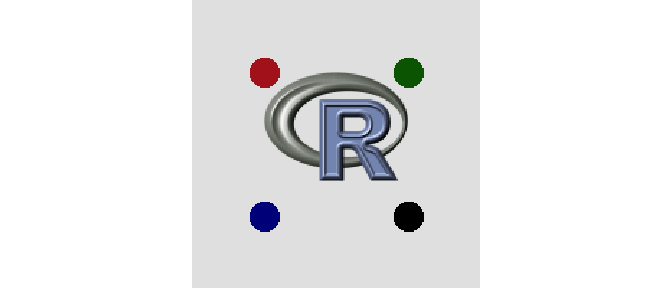
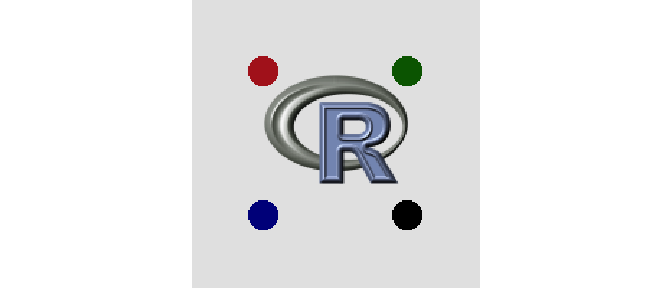
add hjust/vjust arguments

diff --git a/src/collide.c b/src/collide.c
@@ -33,13 +33,16 @@ SEXP col_create_mask_(SEXP nr_) {
 //~~~~~~~~~~~~~~~~~~~~~~~~~~~~~~~~~~~~~~~~~~~~~~~~~~~~~~~~~~~~~~~~~~~~~~~~~~~
 // Setup collision structure
 //~~~~~~~~~~~~~~~~~~~~~~~~~~~~~~~~~~~~~~~~~~~~~~~~~~~~~~~~~~~~~~~~~~~~~~~~~~~
-SEXP col_setup_(SEXP nr_list_, SEXP x_, SEXP y_) {
+SEXP col_setup_(SEXP nr_list_, SEXP x_, SEXP y_, SEXP hjust_, SEXP vjust_) {
   
   int nprotect = 0;
   int N = length(nr_list_);
   if (N != length(x_) || N != length(y_)) {
     error("'nr_list', 'x' and 'y', must all be the same length");
   }
+  
+  double hjust = asReal(hjust_);
+  double vjust = asReal(vjust_);
   
   SEXP x0_   = PROTECT(allocVector(INTSXP, N)); nprotect++;
   SEXP y0_   = PROTECT(allocVector(INTSXP, N)); nprotect++;
@@ -60,10 +63,11 @@ SEXP col_setup_(SEXP nr_list_, SEXP x_, SEXP y_) {
   
   for (int i = 0; i < N; i++) {
     SEXP nr_ = VECTOR_ELT(nr_list_, i);
-    w[i] = Rf_ncols(nr_);
-    h[i] = Rf_nrows(nr_);
-    x0[i] = (int)round(x[i]);
-    y0[i] = (int)round(y[i]);
+    
+    w[i]  = Rf_ncols(nr_);
+    h[i]  = Rf_nrows(nr_);
+    x0[i] = (int)round(x[i] - hjust * w[i]);
+    y0[i] = (int)round(y[i] - vjust * h[i]);
     x1[i] = x0[i] + w[i] - 1;
     y1[i] = y0[i] + h[i] - 1;
     
@@ -76,7 +80,7 @@ SEXP col_setup_(SEXP nr_list_, SEXP x_, SEXP y_) {
   // Setup an empty data.frame
   //~~~~~~~~~~~~~~~~~~~~~~~~~~~~~~~~~~~~~~~~~~~~~~~~~~~~~~~~~~~~~~~~~~~~~~~~~~~
   int ncols = 7;
-  SEXP df_ = PROTECT(allocVector(VECSXP, ncols)); nprotect++;
+  SEXP df_  = PROTECT(allocVector(VECSXP, ncols)); nprotect++;
   SEXP nms_ = PROTECT(allocVector(STRSXP, ncols)); nprotect++;
   SET_STRING_ELT(nms_, 0, mkChar("x0"));
   SET_STRING_ELT(nms_, 1, mkChar("y0"));
@@ -120,13 +124,16 @@ SEXP col_setup_(SEXP nr_list_, SEXP x_, SEXP y_) {
 //~~~~~~~~~~~~~~~~~~~~~~~~~~~~~~~~~~~~~~~~~~~~~~~~~~~~~~~~~~~~~~~~~~~~~~~~~~~
 // 
 //~~~~~~~~~~~~~~~~~~~~~~~~~~~~~~~~~~~~~~~~~~~~~~~~~~~~~~~~~~~~~~~~~~~~~~~~~~~
-SEXP col_detect_broad_(SEXP nr_, SEXP x_, SEXP y_, SEXP cldf_) {
+SEXP col_detect_broad_(SEXP nr_, SEXP x_, SEXP y_, SEXP cldf_, SEXP hjust_, SEXP vjust_) {
   
   int w = Rf_ncols(nr_);
   int h = Rf_nrows(nr_);
   
-  int x = asInteger(x_);
-  int y = asInteger(y_);
+  double hjust = asReal(hjust_);
+  double vjust = asReal(vjust_);
+  
+  int x = asInteger(x_) - round(hjust * w);
+  int y = asInteger(y_) - round(vjust * h);
   
   SEXP x0_   = VECTOR_ELT(cldf_, 0);
   SEXP y0_   = VECTOR_ELT(cldf_, 1);
@@ -168,9 +175,15 @@ SEXP col_detect_broad_(SEXP nr_, SEXP x_, SEXP y_, SEXP cldf_) {
 //~~~~~~~~~~~~~~~~~~~~~~~~~~~~~~~~~~~~~~~~~~~~~~~~~~~~~~~~~~~~~~~~~~~~~~~~~~~
 // 
 //~~~~~~~~~~~~~~~~~~~~~~~~~~~~~~~~~~~~~~~~~~~~~~~~~~~~~~~~~~~~~~~~~~~~~~~~~~~
-SEXP col_detect_narrow_(SEXP nr_, SEXP x_, SEXP y_, SEXP cldf_) {
+SEXP col_detect_narrow_(SEXP nr_, SEXP x_, SEXP y_, SEXP cldf_, SEXP hjust_, SEXP vjust_) {
   
   int nprotect = 0;
+  
+  //~~~~~~~~~~~~~~~~~~~~~~~~~~~~~~~~~~~~~~~~~~~~~~~~~~~~~~~~~~~~~~~~~~~~~~~~~~~
+  // Get broad overlap for overlapping rectangles
+  //~~~~~~~~~~~~~~~~~~~~~~~~~~~~~~~~~~~~~~~~~~~~~~~~~~~~~~~~~~~~~~~~~~~~~~~~~~~
+  SEXP overlap_ = PROTECT(col_detect_broad_(nr_, x_, y_, cldf_, hjust_, vjust_)); nprotect++;
+  int *overlap = LOGICAL(overlap_);
   
   //~~~~~~~~~~~~~~~~~~~~~~~~~~~~~~~~~~~~~~~~~~~~~~~~~~~~~~~~~~~~~~~~~~~~~~~~~~~
   // Unpack info about the primary sprite
@@ -178,14 +191,12 @@ SEXP col_detect_narrow_(SEXP nr_, SEXP x_, SEXP y_, SEXP cldf_) {
   int w = Rf_ncols(nr_);
   int h = Rf_nrows(nr_);
   
-  int x = asInteger(x_);
-  int y = asInteger(y_);
+  double hjust = asReal(hjust_);
+  double vjust = asReal(vjust_);
   
-  //~~~~~~~~~~~~~~~~~~~~~~~~~~~~~~~~~~~~~~~~~~~~~~~~~~~~~~~~~~~~~~~~~~~~~~~~~~~
-  // Get broad overlap for overlapping rectangles
-  //~~~~~~~~~~~~~~~~~~~~~~~~~~~~~~~~~~~~~~~~~~~~~~~~~~~~~~~~~~~~~~~~~~~~~~~~~~~
-  SEXP overlap_ = PROTECT(col_detect_broad_(nr_, x_, y_, cldf_)); nprotect++;
-  int *overlap = LOGICAL(overlap_);
+  int x = asInteger(x_) - round(hjust * w);
+  int y = asInteger(y_) - round(vjust * h);
+  
   
   //~~~~~~~~~~~~~~~~~~~~~~~~~~~~~~~~~~~~~~~~~~~~~~~~~~~~~~~~~~~~~~~~~~~~~~~~~~~
   // Sanity check
@@ -221,7 +232,7 @@ SEXP col_detect_narrow_(SEXP nr_, SEXP x_, SEXP y_, SEXP cldf_) {
   for (int i = 0; i < N; i++) {
     if (!overlap[i]) continue;
     
-    // Rprintf("Primary overlaps with %i\n", i);
+    Rprintf("Primary overlaps with %i\n", i);
     
     uint8_t *smask = RAW(VECTOR_ELT(mask_, i));  
     
@@ -231,9 +242,9 @@ SEXP col_detect_narrow_(SEXP nr_, SEXP x_, SEXP y_, SEXP cldf_) {
     int ymin = max(y        , y0[i]);
     int ymax = min(y + h - 1, y1[i]);
     
-    // Rprintf("screen: (%i, %i) (%i, %i)\n", xmin        , ymin        , xmax - xmin, ymax - ymin);  
-    // Rprintf("prim  : (%i, %i) (%i, %i)\n", xmin - x    , ymin - y    , xmax - xmin, ymax - ymin);  
-    // Rprintf("second: (%i, %i) (%i, %i)\n", xmin - x0[i], ymin - y0[i], xmax - xmin, ymax - ymin);  
+    Rprintf("screen: (%i, %i) (%i, %i)\n", xmin        , ymin        , xmax - xmin, ymax - ymin);
+    Rprintf("prim  : (%i, %i) (%i, %i)\n", xmin - x    , ymin - y    , xmax - xmin, ymax - ymin);
+    Rprintf("second: (%i, %i) (%i, %i)\n", xmin - x0[i], ymin - y0[i], xmax - xmin, ymax - ymin);
     
     int collision = 0;
     for (int xoff = 0; xoff < (xmax - xmin); xoff++) {
@@ -259,29 +270,5 @@ SEXP col_detect_narrow_(SEXP nr_, SEXP x_, SEXP y_, SEXP cldf_) {
   UNPROTECT(nprotect);
   return overlap_;
 }
-
-
-// xmin <- max(xhero                 , cldf$x0[idx])
-//   xmax <- min(xhero + ncol(hero) - 1, cldf$x1[idx])
-//   
-//   ymin <- max(yhero                 , cldf$y0[idx])
-//   ymax <- min(yhero + nrow(hero) - 1, cldf$y1[idx])
-//   
-//   hero_mask <- create_mask(hero) 
-//   
-//   sub_hero <- nr_crop(hero_mask, xmin - xhero, ymin - yhero, xmax - xmin, ymax - ymin)
-//   
-//   baddy <- cldf[idx, ]
-// 
-// sub_baddy <- nr_crop(baddy$mask[[1]], xmin - baddy$x0, ymin - baddy$y0, 
-//                      w = xmax - xmin, h = ymax - ymin)
-//   
-// #~~~~~~~~~~~~~~~~~~~~~~~~~~~~~~~~~~~~~~~~~~~~~~~~~~~~~~~~~~~~~~~~~~~~~~~~~~~~
-// # We now have enough information for a detailed overlap
-// #~~~~~~~~~~~~~~~~~~~~~~~~~~~~~~~~~~~~~~~~~~~~~~~~~~~~~~~~~~~~~~~~~~~~~~~~~~~~
-//   overlap[idx] <- any(sub_hero & sub_baddy)
-
-
-
 
 

diff --git a/src/init.c b/src/init.c
@@ -3,18 +3,18 @@
 #include <R.h>
 #include <Rinternals.h>
 
-extern SEXP col_setup_(SEXP nr_list_, SEXP x_, SEXP y_);
+extern SEXP col_setup_(SEXP nr_list_, SEXP x_, SEXP y_, SEXP hjust_, SEXP vjust_);
 extern SEXP col_create_mask_(SEXP nr_);
 
-extern SEXP col_detect_broad_ (SEXP nr_, SEXP x_, SEXP y_, SEXP cldf_);
-extern SEXP col_detect_narrow_(SEXP nr_, SEXP x_, SEXP y_, SEXP cldf_);
+extern SEXP col_detect_broad_ (SEXP nr_, SEXP x_, SEXP y_, SEXP cldf_, SEXP hjust_, SEXP vjust_);
+extern SEXP col_detect_narrow_(SEXP nr_, SEXP x_, SEXP y_, SEXP cldf_, SEXP hjust_, SEXP vjust_);
 
 static const R_CallMethodDef CEntries[] = {
   
-  {"col_setup_"        , (DL_FUNC) &col_setup_        , 3},
+  {"col_setup_"        , (DL_FUNC) &col_setup_        , 5},
   {"col_create_mask_"  , (DL_FUNC) &col_create_mask_  , 1},
-  {"col_detect_broad_" , (DL_FUNC) &col_detect_broad_ , 4},
-  {"col_detect_narrow_", (DL_FUNC) &col_detect_narrow_, 4},
+  {"col_detect_broad_" , (DL_FUNC) &col_detect_broad_ , 6},
+  {"col_detect_narrow_", (DL_FUNC) &col_detect_narrow_, 6},
   
   {NULL , NULL, 0}
 };

diff --git a/README.md b/README.md
@@ -6,6 +6,7 @@
 <!-- badges: start -->
 
 ![](https://img.shields.io/badge/cool-useless-green.svg)
+[![R-CMD-check](https://github.com/coolbutuseless/naracollide/actions/workflows/R-CMD-check.yaml/badge.svg)](https://github.com/coolbutuseless/naracollide/actions/workflows/R-CMD-check.yaml)
 <!-- badges: end -->
 
 `{naracollide}` is for detecting collisions between native raster
@@ -43,8 +44,8 @@ screen <- nr_new(200, 200, 'grey90')
 
 # The R logo as a native raster
 logo  <- png::readPNG(system.file("img", "Rlogo.png", package="png"), native = TRUE)
-xlogo <- 50
-ylogo <- 50
+xlogo <- 100
+ylogo <-  90
 
 # Set up the 4 circular targets
 targets <- lapply(1:4, function(i) {
@@ -52,16 +53,16 @@ targets <- lapply(1:4, function(i) {
   nr_circle(target, 10, 10, 10, c('firebrick', 'darkblue', 'darkgreen', 'black')[i])
 })
 
-xtargets <- c(40,  40, 140, 140)
-ytargets <- c(40, 140,  40, 140)
+xtargets <- c(50,  50, 150, 150)
+ytargets <- c(50, 150,  50, 150)
 
 # Draw the targets
 for (i in seq_along(targets)) {
-  nr_blit(screen, xtargets[i], ytargets[i], targets[[i]])
+  nr_blit(screen, xtargets[i], ytargets[i], targets[[i]], hjust = 0.5, vjust = 0.5)
 }
 
 # Draw the logo
-nr_blit(screen, xlogo, ylogo, logo)
+nr_blit(screen, xlogo, ylogo, logo, hjust = 0.5, vjust = 0.5)
 
 # Show the screen
 plot(screen, T)
@@ -71,22 +72,31 @@ plot(screen, T)
 
 ``` r
 # Setup collision detection
-coldf <- col_setup(targets, xtargets, ytargets)
+coldf <- col_setup(targets, xtargets, ytargets, hjust = 0.5, vjust = 0.5)
 
 # Check for bounding box intersection
 # Two `TRUE` values so there are 2 intersections
 # out of the possible 4 objects to intersect with.
-# Intesection is with the 1st and 3rd targets
-col_detect_broad(logo, xlogo, ylogo, coldf)
+# Intersection is with the 1st and 3rd targets
+col_detect_broad(logo, xlogo, ylogo, coldf, hjust = 0.5, vjust = 0.5)
 ```
 
     #> [1]  TRUE FALSE  TRUE FALSE
 
 ``` r
 # Check for overlapping pixels  
-# All values are `FALSE` so there are no overlapping pixels
-col_detect_narrow(logo, xlogo, ylogo, coldf)
+# All values are `FALSE` as there are no overlapping pixels
+col_detect_narrow(logo, xlogo, ylogo, coldf, hjust = 0.5, vjust = 0.5)
 ```
+
+    #> Primary overlaps with 0
+    #> screen: (50, 52) (10, 8)
+    #> prim  : (0, 0) (10, 8)
+    #> second: (10, 12) (10, 8)
+    #> Primary overlaps with 2
+    #> screen: (140, 52) (9, 8)
+    #> prim  : (90, 0) (9, 8)
+    #> second: (0, 12) (9, 8)
 
     #> [1] FALSE FALSE FALSE FALSE
 
@@ -101,8 +111,8 @@ see:
   returned by `col_detect_narrow()` are `FALSE`
 
 ``` r
-nr_rect(screen, xlogo, ylogo, ncol(logo), nrow(logo), fill = NA, color = 'black')
-nr_rect(screen, xtargets, ytargets, 21, 21, fill = NA, color = 'grey50')
+nr_rect(screen, xlogo, ylogo, ncol(logo), nrow(logo), fill = NA, color = 'black', hjust = 0.5, vjust = 0.5)
+nr_rect(screen, xtargets, ytargets, 21, 21, fill = NA, color = 'grey50', hjust = 0.5, vjust = 0.5)
 
 plot(screen, T)
 ```

diff --git a/NEWS.md b/NEWS.md
@@ -1,3 +1,7 @@
+# naracollite 0.1.0.9000
+
+* add `hjust` and `vjust` arguments to match `nara::nr_blit()`
+
 # naracollide 0.1.0
 
 * Initial release
